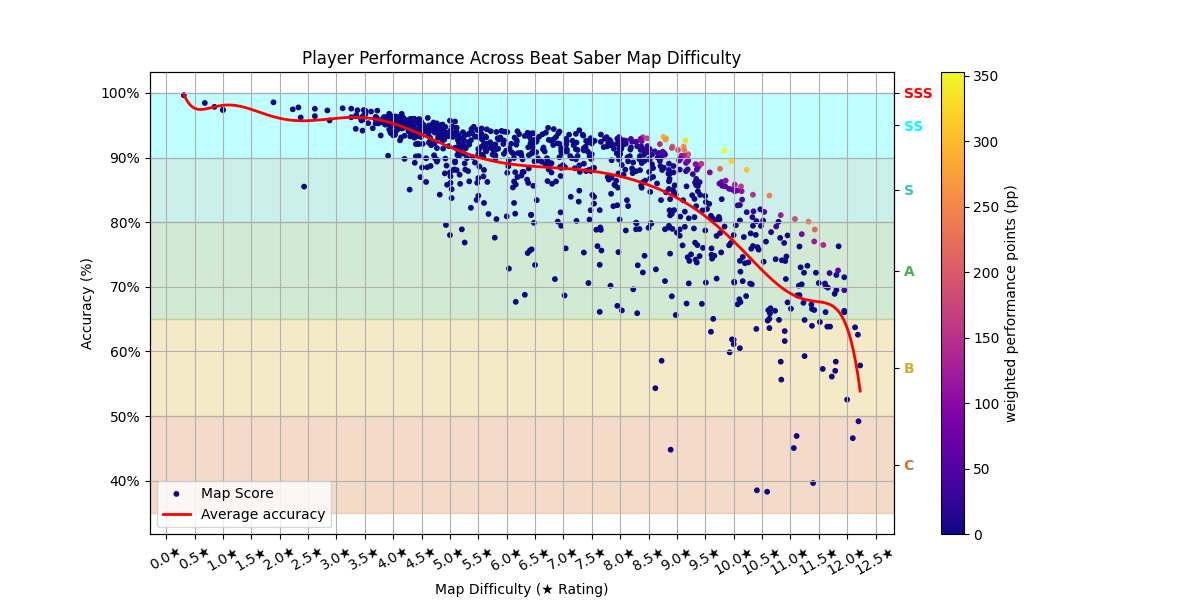
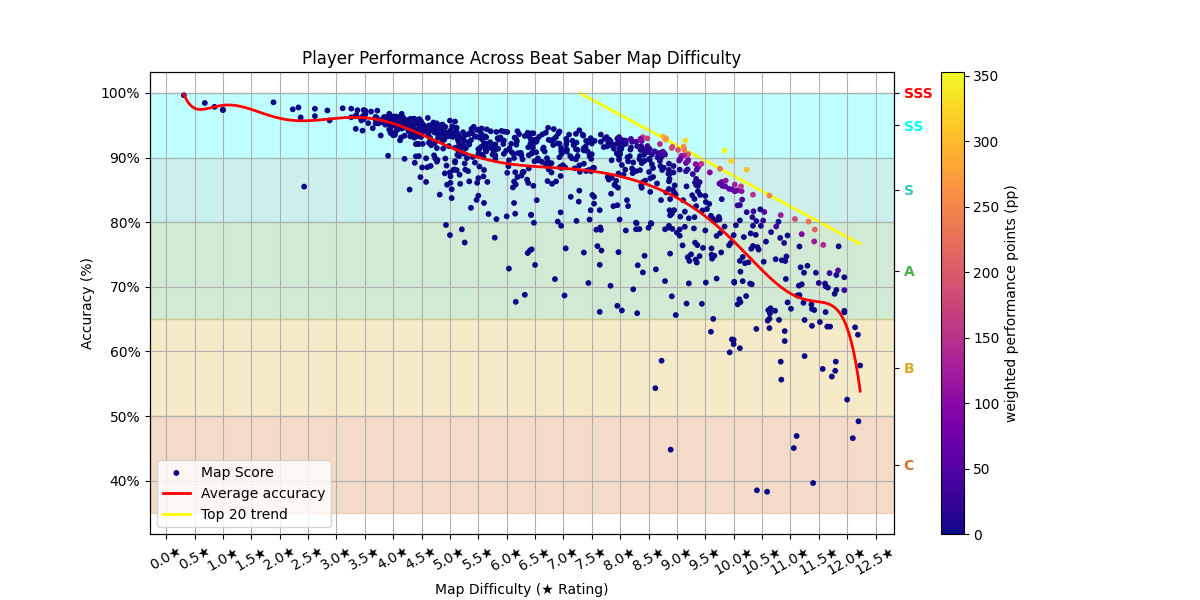
Added yellow line to show where a new score needs to be

diff --git a/create_maps_acc_graph.py b/create_maps_acc_graph.py
@@ -47,7 +47,8 @@ def create_maps_acc_graph():
         c=df["weighted_pp"],
         cmap="plasma",
         s=10,
-        label="Map Score"
+        label="Map Score",
+        zorder=2
     )
 
     plt.title("Player Performance Across Beat Saber Map Difficulty")
@@ -64,8 +65,28 @@ def create_maps_acc_graph():
         poly(xs),
         linewidth=2,
         c="red",
-        label="Average accuracy"
+        label="Average accuracy",
+        zorder=3
     )
+
+    top20 = df.nlargest(20, "weighted_pp")
+    m20, b20 = np.polyfit(top20["stars"], top20["accuracy_pct"], 1)
+    y_top20 = m20 * xs + b20
+
+    mask = y_top20 < 100
+
+    xs_visible = xs[mask]
+    y_visible = y_top20[mask]
+
+    ax.plot(
+        xs_visible,
+        y_visible,
+        linewidth=2,
+        c="yellow",
+        label="Top 20 trend",
+        zorder=1,
+    )
+
     ax.legend()
 
     cbar = plt.colorbar(scatter, ax=ax)
